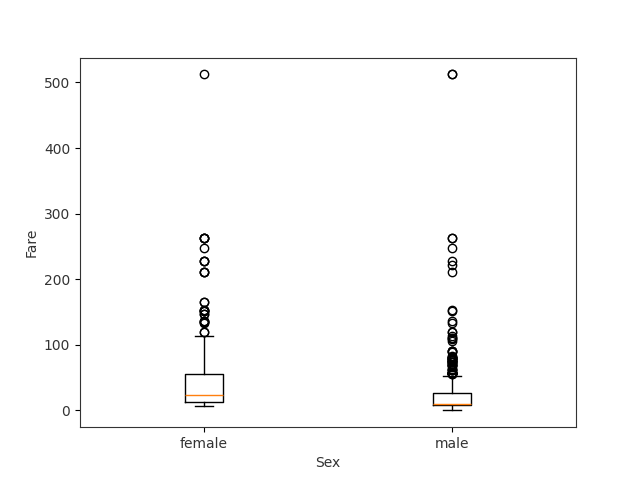
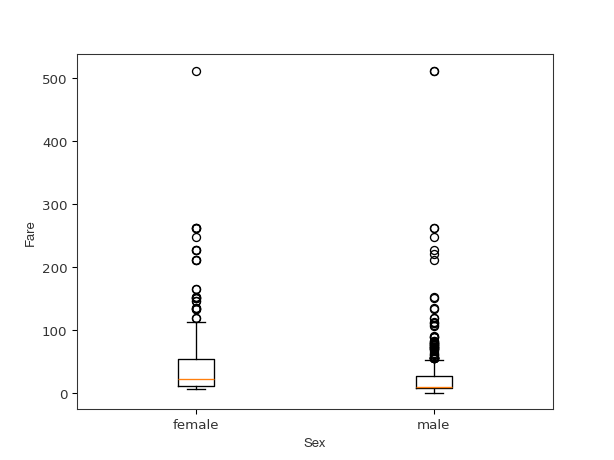
Add plot size

diff --git a/src/prplot/chart.py b/src/prplot/chart.py
@@ -6,7 +6,7 @@ from prplot.plot import Plot
 from prplot.style.chart_style import ChartStyle;
 
 class Chart:
-    def __init__(self, data: pd.DataFrame, binds, axes, label, style: ChartStyle, plots):
+    def __init__(self, data: pd.DataFrame, size, binds, axes, label, style: ChartStyle, plots):
         self.data = data
         self.binds = binds
         self.axes = axes
@@ -17,13 +17,23 @@ class Chart:
             plot.chart = self
         self.figure = None
         self.ax = None
+        self.size = size
     
     def _draw(self):
+        self._draw_figure()
         self._draw_axes()
         self._draw_plots()
 
+    def _draw_figure(self):
+        if self.size:
+            self.figure, self.ax = plt.subplots(figsize=(self.size['width'], self.size['height']))
+        else:
+            self.figure, self.ax = plt.subplots()
+        
+        fig = self.figure
+        self.style.apply_to_figure(fig)
+
     def _draw_axes(self):
-        self.figure, self.ax = plt.subplots()
         ax = self.ax
 
         if 'title' in self.label:
@@ -31,12 +41,12 @@ class Chart:
 
         if 'x' in self.label:
             ax.set_xlabel(self.label['x'])
-        else:
+        elif 'x' in self.binds:
             ax.set_xlabel(self.binds['x'])
 
         if 'y' in self.label:
             ax.set_ylabel(self.label['y'])
-        else:
+        elif 'y' in self.binds:
             ax.set_ylabel(self.binds['y'])
         
         self.style.apply_to_axes(ax)
@@ -47,10 +57,10 @@ class Chart:
             plot.ax = self.ax
             plot.draw()
 
-    def save(self, filename):
+    def save(self, filename, dpi=96):
         if not self.ax:
             self._draw()
-        self.figure.savefig(filename)
+        self.figure.savefig(filename, dpi=dpi)
 
     def show(self):
         if not self.ax:
@@ -66,6 +76,7 @@ class ChartBuilder:
         self._plots = []
         self._style = None
         self._label = {}
+        self._size = None
         
     def data(self, data: pd.DataFrame):
         self._data = data
@@ -83,19 +94,26 @@ class ChartBuilder:
         self._plots.append(plot)
         return self
     
+    def size(self, width, height):
+        self._size = {
+            'width': width,
+            'height': height
+        }
+        return self
+    
     def style(self, style):
         self._style = style
         return self
     
-    def build(self):
-        return Chart(self._data, self._binds, self._axes, self._label, self._style, self._plots)
+    def build(self) -> Chart:
+        return Chart(self._data, self._size, self._binds, self._axes, self._label, self._style, self._plots)
 
-    def save(self, filename):
+    def save(self, filename, dpi=96) -> Chart:
         chart = self.build()
-        chart.save(filename)
+        chart.save(filename, dpi)
         return chart
 
-    def show(self):
+    def show(self) -> Chart:
         chart = self.build()
         chart.show()
         return chart

diff --git a/src/prplot/style/grayscale.py b/src/prplot/style/grayscale.py
@@ -13,7 +13,7 @@ class Grayscale(ChartStyle):
                         color = '#333',
                         fontsize = 10,
                         fontweight = 'normal',
-                        fontname = 'Libertine'
+                        fontname = 'FreeSans'
                     ),
                     tick = dict(
                         color = '#333',
@@ -39,7 +39,7 @@ class Grayscale(ChartStyle):
                         color = '#333',
                         fontsize = 10,
                         fontweight = 'normal',
-                        fontname = 'Libertine'
+                        fontname = 'FreeSans'
                     ),
                     tick = dict(
                         color = '#333',

diff --git a/src/prplot/style/chart_style.py b/src/prplot/style/chart_style.py
@@ -44,6 +44,19 @@ class ChartStyle:
         else:
             ax.spines['bottom'].set_visible(False)
 
+    def apply_to_figure(self, fig):
+        left_offset = 0.75 / fig.get_figwidth()
+        top_offset = 0.5 / fig.get_figheight()
+        right_offset = 0.2 / fig.get_figwidth()
+        bottom_offset = 0.5 / fig.get_figheight()
+
+        fig.subplots_adjust(
+            left=left_offset,
+            top=1 - top_offset,
+            right=1 - right_offset,
+            bottom=bottom_offset
+        )
+
     @abstractmethod
     def get_color(self):
         pass

diff --git a/tests/test_prplot.py b/tests/test_prplot.py
@@ -18,7 +18,11 @@ def test_chart_bar():
             y='People Count'
         )
         .plot(prc.plot.Bar())
-        .save('bar.png')
+        .size(
+            width=4,
+            height=3
+        )
+        .save('bar.png', dpi=300)
         .show()
     )
 
